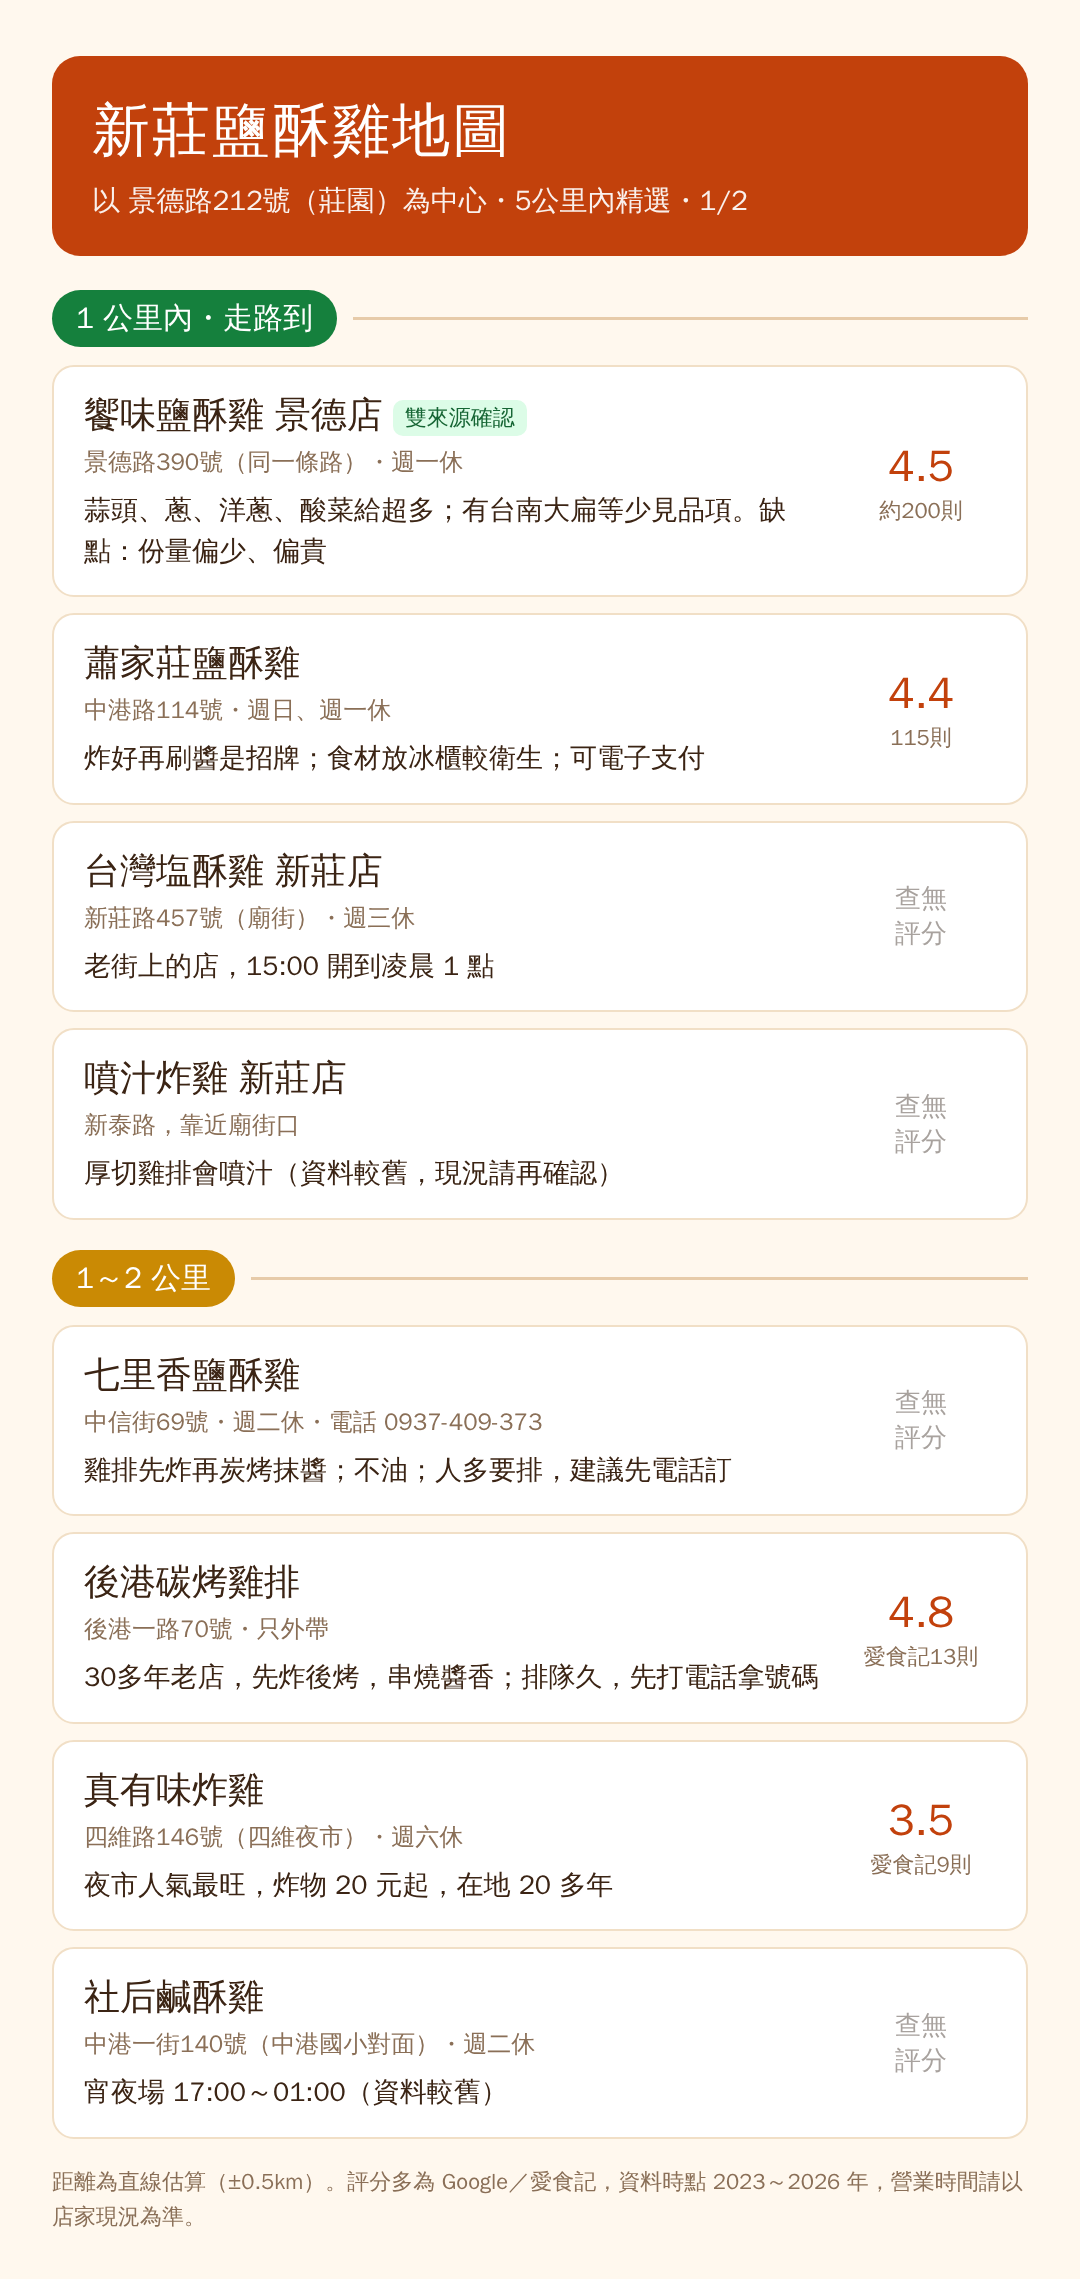
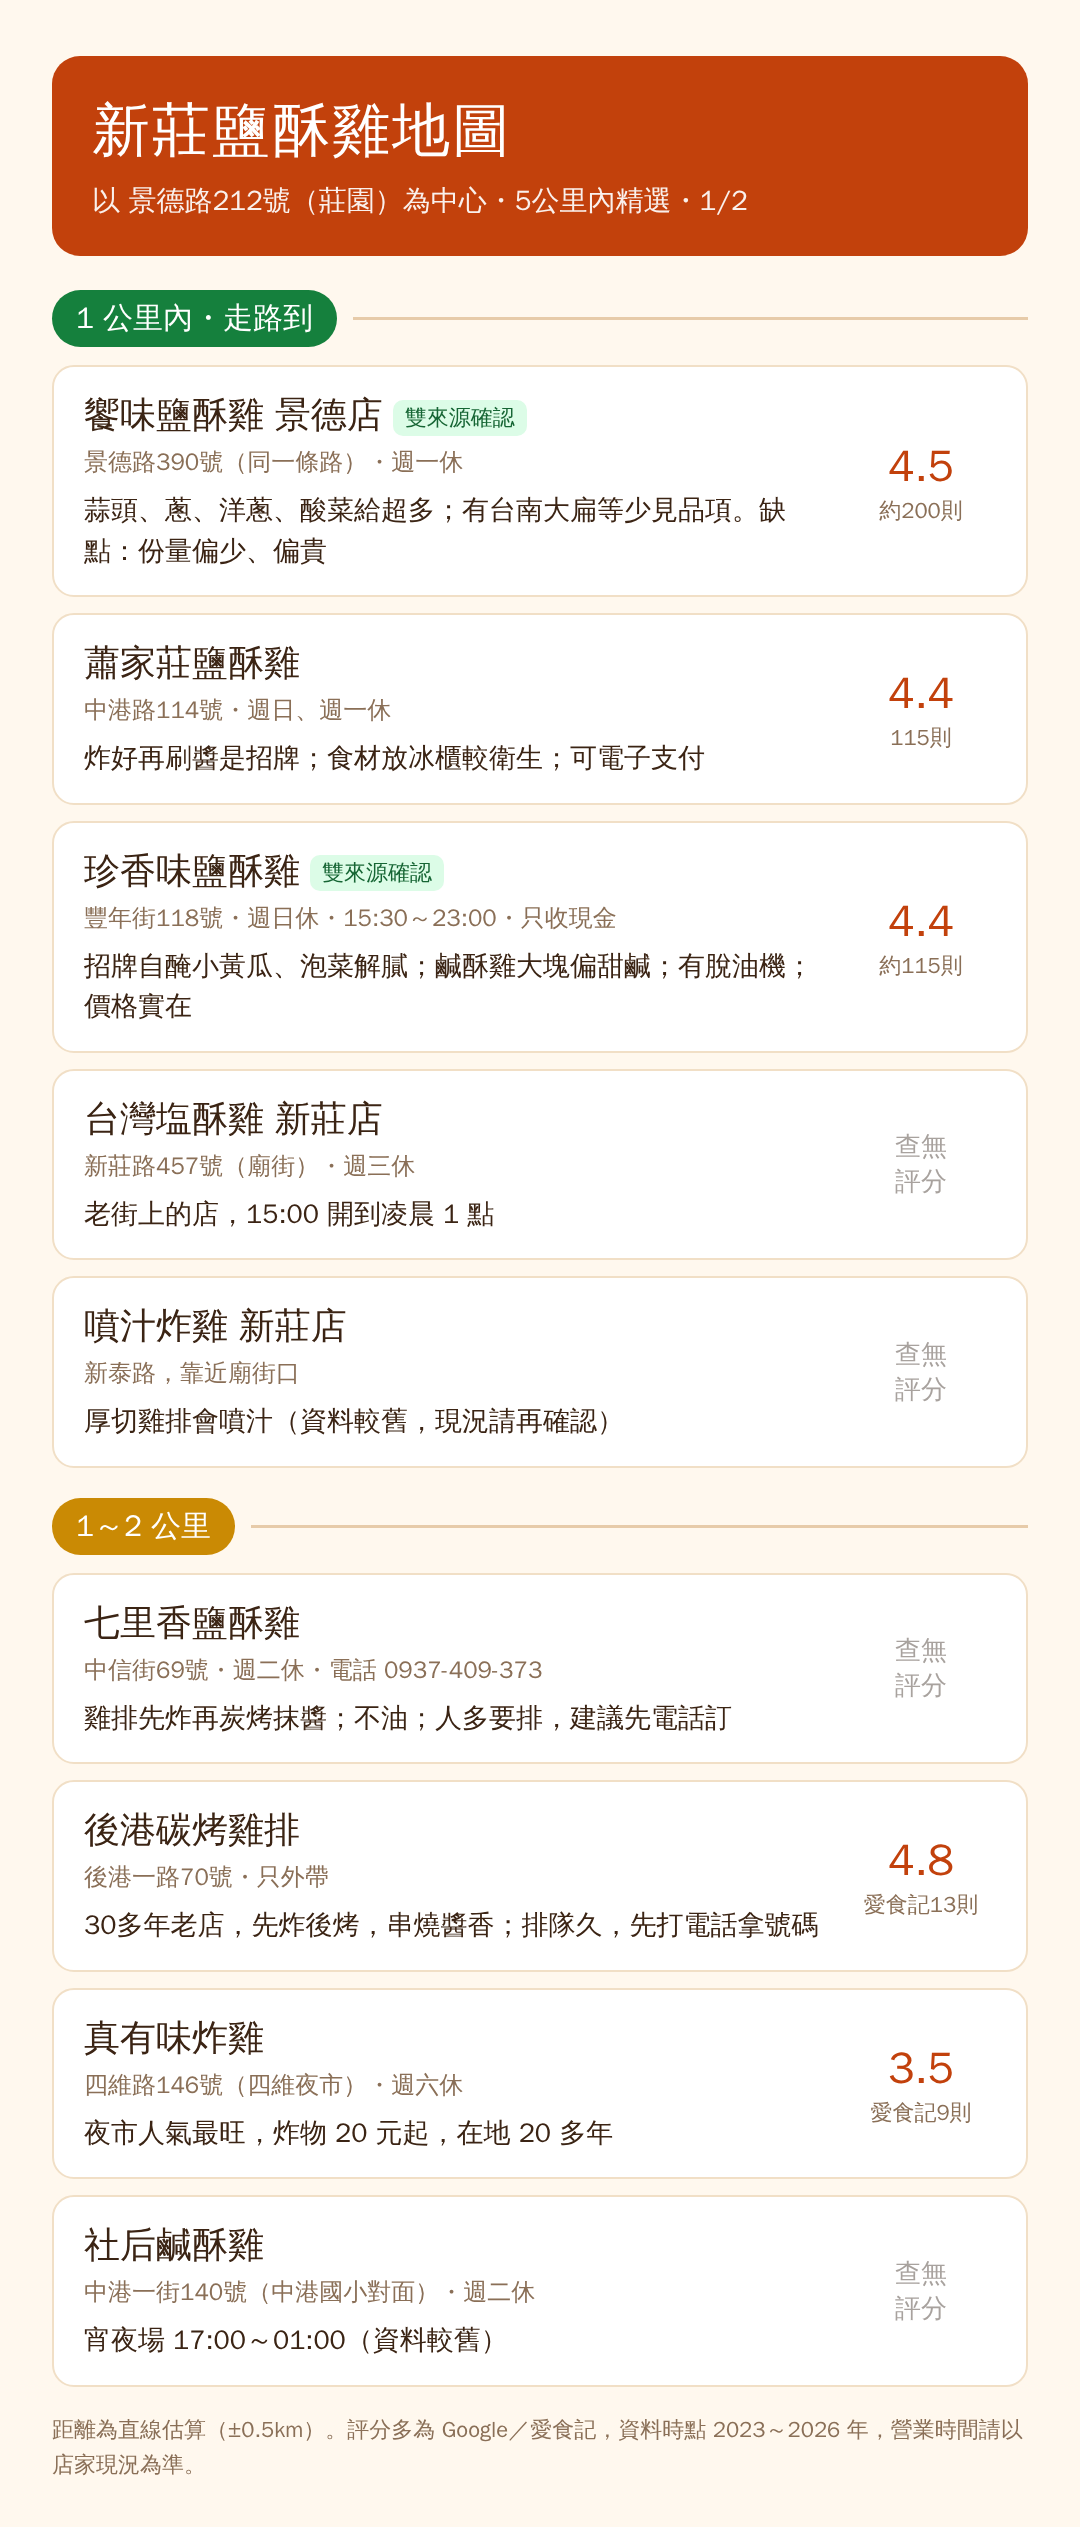
Add 珍香味鹽酥雞 to LINE guide image
Claude-Session: https://claude.ai/code/session_01J9QnmjCMYVaqLnyaLNpVkW

diff --git a/output/line_card.html b/output/line_card.html
@@ -50,6 +50,12 @@ body{font-family:"WenQuanYi Zen Hei",sans-serif;background:#eee;}
   </div><div class="right"><div class="star">4.4</div><div class="cnt">115則</div></div></div>
 
   <div class="card"><div class="left">
+    <div class="name">珍香味鹽酥雞<span class="badge">雙來源確認</span></div>
+    <div class="addr">豐年街118號・週日休・15:30～23:00・只收現金</div>
+    <div class="feat">招牌自醃小黃瓜、泡菜解膩；鹹酥雞大塊偏甜鹹；有脫油機；價格實在</div>
+  </div><div class="right"><div class="star">4.4</div><div class="cnt">約115則</div></div></div>
+
+  <div class="card"><div class="left">
     <div class="name">台灣塩酥雞 新莊店</div>
     <div class="addr">新莊路457號（廟街）・週三休</div>
     <div class="feat">老街上的店，15:00 開到凌晨 1 點</div>
